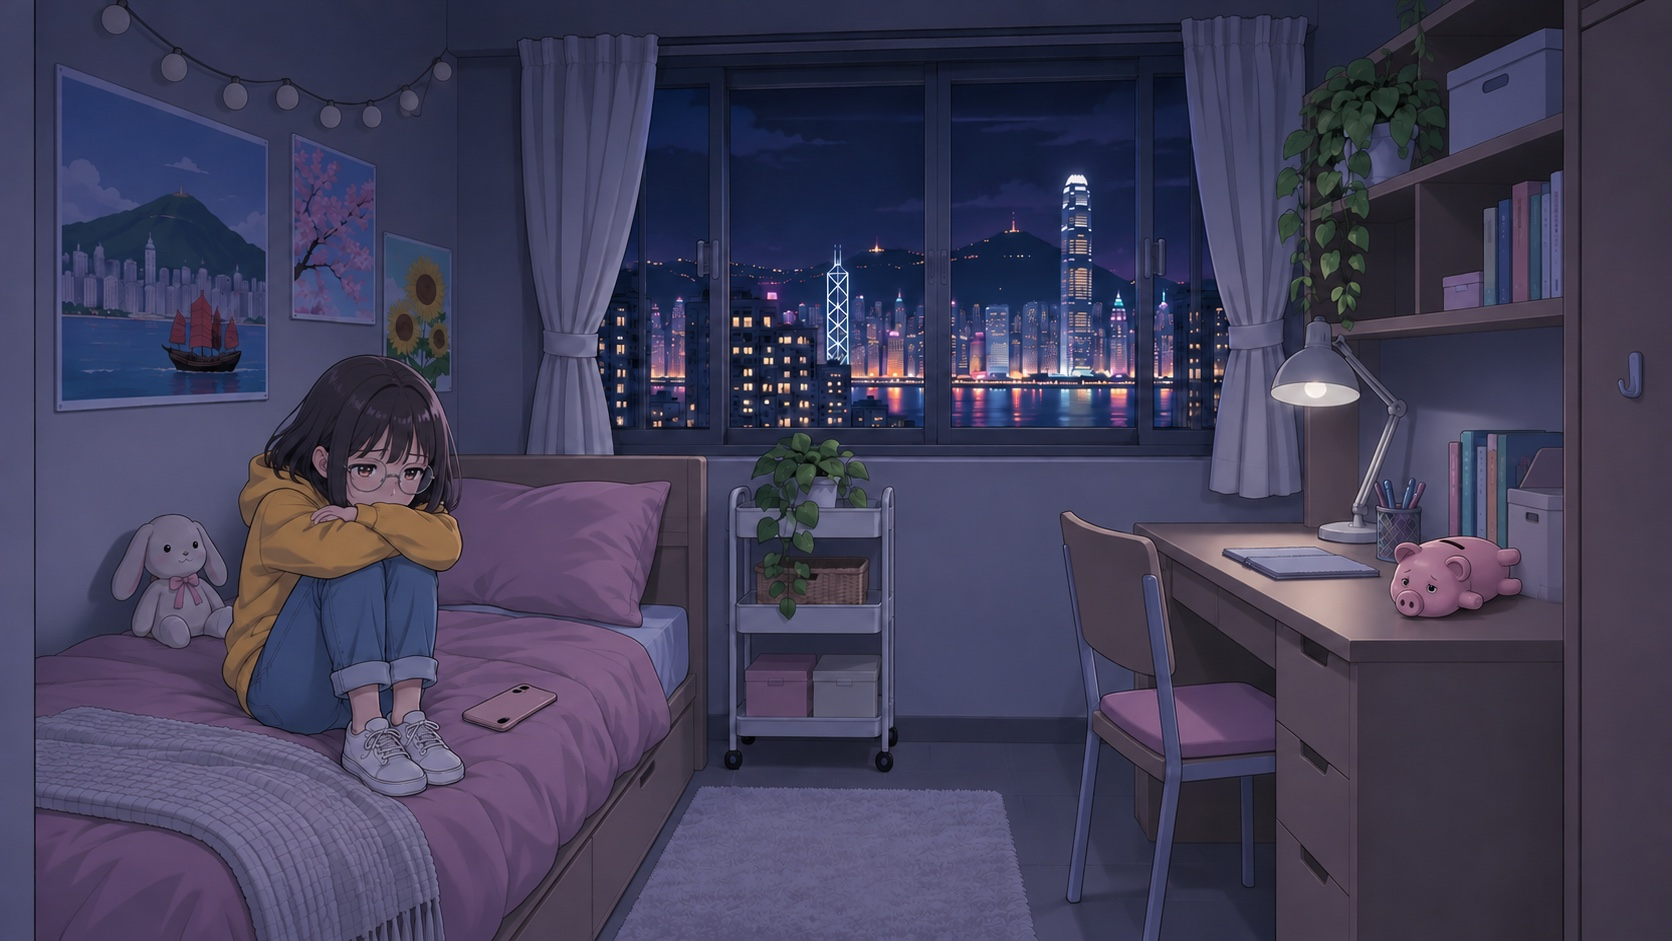
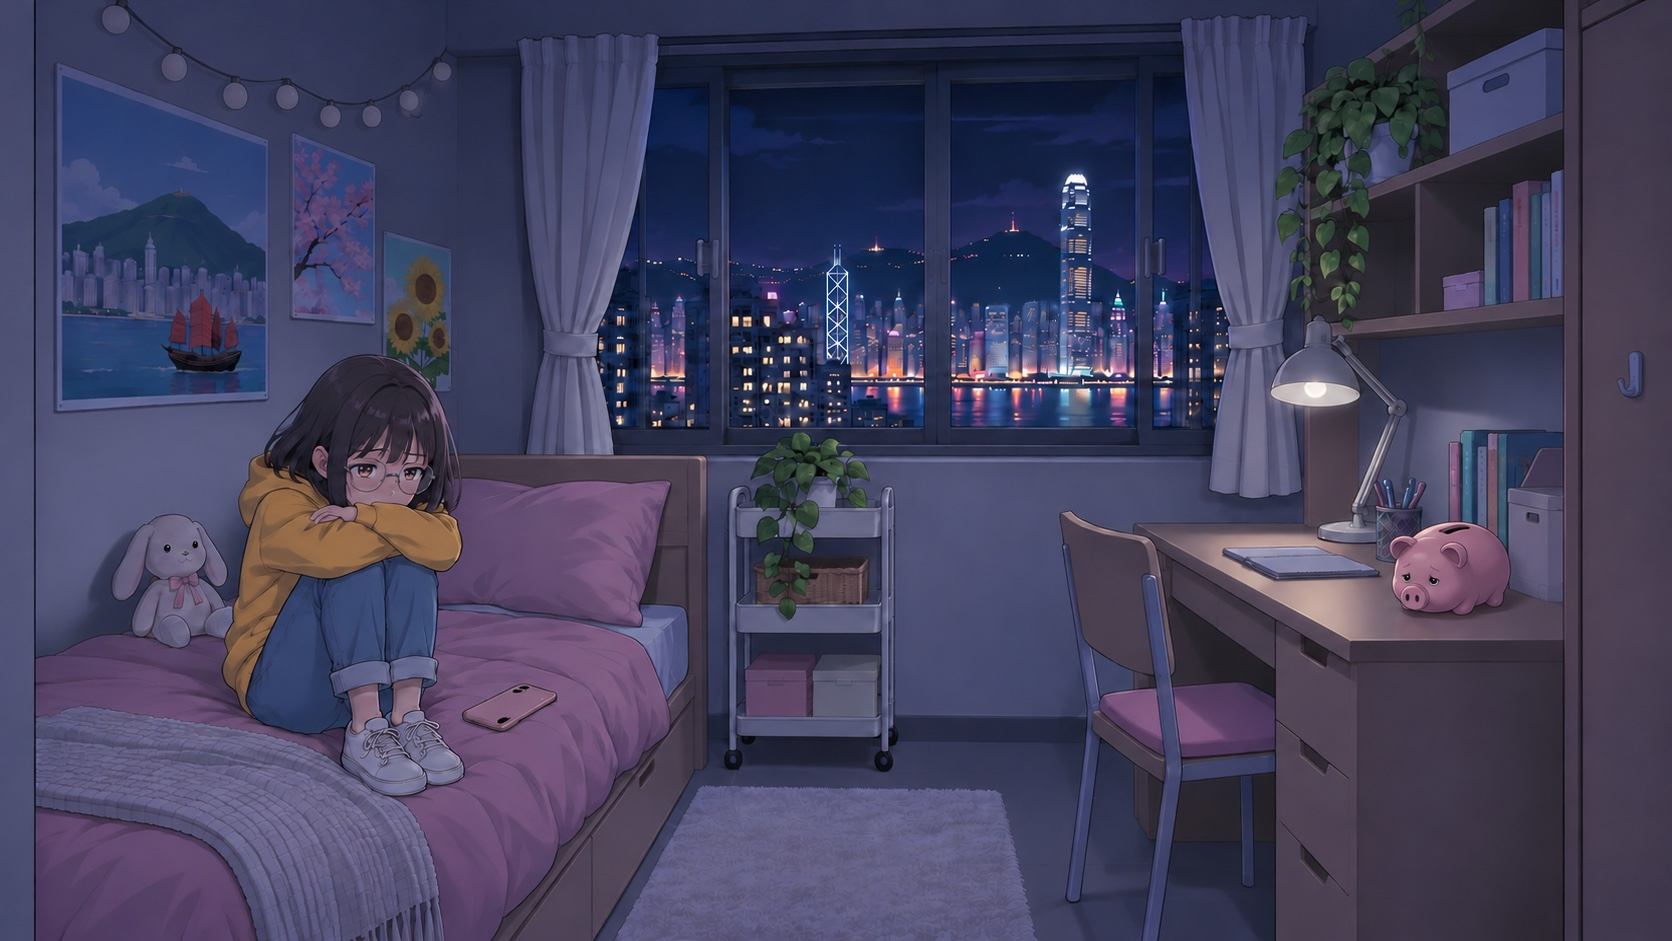
Integrate story illustrations and finalize resting Piggy

diff --git a/story.js b/story.js
@@ -53,7 +53,7 @@ const STORY = {
     timeoutTo: "c1_hook"
   },
   c1_safe: {
-    chapter: { en: "Ch.1 The Dream Job", zh: "第一章 · 梦想兼职" }, title: { en: "Blocked!", zh: "已拉黑！" }, kind: "image", media: null, pos: [2, 0],
+    chapter: { en: "Ch.1 The Dream Job", zh: "第一章 · 梦想兼职" }, title: { en: "Blocked!", zh: "已拉黑！" }, kind: "image", media: "media/c1_safe.jpg", pos: [2, 0],
     scene: { emoji: "🛡🐷💖", bg: "linear-gradient(135deg,#c8f7dc,#e6fff2)", tag: { en: "Day 3 · 11:49 PM", zh: "第 3 天 · 晚上 11:49" } },
     phone: { kind: "scan", from: { en: "Scameter check", zh: "防骗视伏器查询" }, text: { en: "⚠ HIGH RISK — number reported for job scams", zh: "⚠ 高风险——该号码曾被举报涉及求职诈骗" } },
     lines: [{ who: { en: "Piggy", zh: "Piggy" }, text: { en: "Look at you! Delete, block, report. I'm so proud I could cry coins.", zh: "看看你！删除、拉黑、举报。我骄傲得都快哭出硬币了。" } }],
@@ -77,7 +77,7 @@ const STORY = {
     timeoutTo: "c1_trap"
   },
   c1_check: {
-    chapter: { en: "Ch.1 The Dream Job", zh: "第一章 · 梦想兼职" }, title: { en: "37 Reports", zh: "37 次举报" }, kind: "image", media: null, pos: [3, 1],
+    chapter: { en: "Ch.1 The Dream Job", zh: "第一章 · 梦想兼职" }, title: { en: "37 Reports", zh: "37 次举报" }, kind: "image", media: "media/c1_check.jpg", pos: [3, 1],
     scene: { emoji: "🔍🚨🐷", bg: "linear-gradient(135deg,#d7ecff,#f0f7ff)", tag: { en: "Day 4 · 12:03 AM", zh: "第 4 天 · 凌晨 12:03" } },
     phone: { kind: "scan", from: { en: "Scameter check", zh: "防骗视伏器查询" }, text: { en: "⚠ Reported 37 times — Employment fraud", zh: "⚠ 已被举报 37 次——求职诈骗" } },
     lines: [
@@ -104,7 +104,7 @@ const STORY = {
     timeoutTo: "c1_recover"
   },
   c1_recover: {
-    chapter: { en: "Ch.1 The Dream Job", zh: "第一章 · 梦想兼职" }, title: { en: "Calling 18222", zh: "拨打 18222" }, kind: "image", media: null, pos: [4, 2],
+    chapter: { en: "Ch.1 The Dream Job", zh: "第一章 · 梦想兼职" }, title: { en: "Calling 18222", zh: "拨打 18222" }, kind: "image", media: "media/c1_recover.jpg", pos: [4, 2],
     scene: { emoji: "☎🩹🐷", bg: "linear-gradient(135deg,#e3dcff,#f6f2ff)", tag: { en: "Day 4 · 12:31 AM", zh: "第 4 天 · 凌晨 12:31" } },
     phone: { kind: "call", from: { en: "Anti-Scam Helpline 18222", zh: "防骗易热线 18222" }, text: { en: "Connected", zh: "已接通" } },
     lines: [
@@ -132,7 +132,7 @@ const STORY = {
     timeoutTo: "c2_deep"
   },
   c2_safe: {
-    chapter: { en: "Ch.2 The Officer Calls", zh: "第二章 · 警官来电" }, title: { en: "Hung Up", zh: "挂断了" }, kind: "image", media: null, pos: [6, 0],
+    chapter: { en: "Ch.2 The Officer Calls", zh: "第二章 · 警官来电" }, title: { en: "Hung Up", zh: "挂断了" }, kind: "image", media: "media/c2_safe.jpg", pos: [6, 0],
     scene: { emoji: "📵😎🐷", bg: "linear-gradient(135deg,#c8f7dc,#e6fff2)", tag: { en: "Week 2 · 9:20 AM", zh: "第 2 周 · 上午 9:20" } },
     lines: [
       { who: { en: "Helpline", zh: "热线人员" }, text: { en: "Real police never ask you to keep it secret, transfer money, or show a warrant by video call.", zh: "真正的警察不会要求你保密、转账，或通过视频通话出示通缉令。" } },
@@ -157,7 +157,7 @@ const STORY = {
     timeoutTo: "c2_door"
   },
   c2_crack: {
-    chapter: { en: "Ch.2 The Officer Calls", zh: "第二章 · 警官来电" }, title: { en: "Vibe Check Failed", zh: "露馅了" }, kind: "image", media: null, pos: [7, 1],
+    chapter: { en: "Ch.2 The Officer Calls", zh: "第二章 · 警官来电" }, title: { en: "Vibe Check Failed", zh: "露馅了" }, kind: "image", media: "media/c2_crack.jpg", pos: [7, 1],
     scene: { emoji: "😡📴🐷", bg: "linear-gradient(135deg,#ffe0b3,#fff3e0)", tag: { en: "Week 2 · 10:05 AM", zh: "第 2 周 · 上午 10:05" } },
     lines: [
       { who: { en: "Wang", zh: "王警官" }, text: { en: "You DARE question me?! *click*", zh: "你敢质疑我？！*挂断*" } },
@@ -245,25 +245,25 @@ const STORY = {
 
   // ---------------- Endings ----------------
   end_slayer: {
-    chapter: { en: "Ending", zh: "结局" }, title: { en: "Scam Slayer", zh: "骗局终结者" }, kind: "image", media: null, pos: [11, 0],
+    chapter: { en: "Ending", zh: "结局" }, title: { en: "Scam Slayer", zh: "骗局终结者" }, kind: "image", media: "media/end_slayer.jpg", pos: [11, 0],
     scene: { emoji: "🐷🕶🏆", bg: "linear-gradient(135deg,#fff1a8,#ffd6e7)", tag: { en: "End of semester", zh: "学期结束" } },
     lines: [{ who: { en: "Piggy", zh: "Piggy" }, text: { en: "Still chubby. Still rich. Best semester ever.", zh: "还是圆滚滚的，还是有钱。最棒的一个学期。" } }],
     ending: { badge: "🛡", good: true, title: { en: "SCAM SLAYER", zh: "骗局终结者" }, text: { en: "You spotted every trick. Now send this to the friend who clicks every link.", zh: "你识破了每个圈套。现在把这个故事发给那个见链接就点的朋友。" } }
   },
   end_comeback: {
-    chapter: { en: "Ending", zh: "结局" }, title: { en: "Comeback Kid", zh: "及时止损者" }, kind: "image", media: null, pos: [11, 1],
+    chapter: { en: "Ending", zh: "结局" }, title: { en: "Comeback Kid", zh: "及时止损者" }, kind: "image", media: "media/end_comeback.jpg", pos: [11, 1],
     scene: { emoji: "🐷🩹👍", bg: "linear-gradient(135deg,#d6f5ff,#ffe6f0)", tag: { en: "End of semester", zh: "学期结束" } },
     lines: [{ who: { en: "Piggy", zh: "Piggy" }, text: { en: "A little lighter. A lot wiser.", zh: "轻了一点。也聪明了很多。" } }],
     ending: { badge: "🔁", good: true, title: { en: "COMEBACK KID", zh: "及时止损者" }, text: { en: "You got hooked — but you stopped, spoke up and reported. That's how money gets saved: fast action, no shame.", zh: "你上过钩，但你停了手、说了出来，也报了案。保住钱靠的就是及时行动，不必羞于求助。" } }
   },
   end_dark: {
-    chapter: { en: "Ending", zh: "结局" }, title: { en: "Gone Dark", zh: "失联" }, kind: "image", media: null, pos: [8, 3],
+    chapter: { en: "Ending", zh: "结局" }, title: { en: "Gone Dark", zh: "失联" }, kind: "image", media: "media/end_dark.jpg", pos: [8, 3],
     scene: { emoji: "📱⬛😢", bg: "linear-gradient(135deg,#1a1a1a,#3a3a3a)", tag: { en: "Two days later", zh: "两天后" } },
     lines: [{ who: { en: "Narrator", zh: "旁白" }, text: { en: "Mia went silent. Two days later, her parents received a video of her 'kidnapped' — and a ransom demand.", zh: "Mia 失联了。两天后，她的父母收到她“被绑架”的视频，以及索要赎金的信息。" } }],
     ending: { badge: "🌑", good: false, title: { en: "GONE DARK", zh: "失联" }, text: { en: "Silence is a scammer's best friend. In real 'virtual kidnapping' cases, students were told to fake their own kidnapping. Tell someone. Always.", zh: "沉默是骗子最好的朋友。在真实的“虚拟绑架”案件中，学生曾被要求假装自己遭到绑架。一定要告诉别人。" }, rewind: "c2_door" }
   },
   end_faceswap: {
-    chapter: { en: "Ending", zh: "结局" }, title: { en: "Face Swapped", zh: "换脸陷阱" }, kind: "image", media: null, pos: [11, 3],
+    chapter: { en: "Ending", zh: "结局" }, title: { en: "Face Swapped", zh: "换脸陷阱" }, kind: "image", media: "media/end_faceswap.jpg", pos: [11, 3],
     scene: { emoji: "🎭🐷🕳", bg: "linear-gradient(135deg,#3a2a4a,#6a4a6a)", tag: { en: "One week later", zh: "一周后" } },
     lines: [{ who: { en: "Piggy", zh: "Piggy" }, text: { en: "Four thousand dollars... gone. And Mia hasn't told a single soul.", zh: "四千块……没了。而 Mia 一个人都没告诉。" } }],
     ending: { badge: "🎭", good: false, title: { en: "FACE SWAPPED", zh: "换脸陷阱" }, text: { en: "A deepfake needs only seconds of a voice and a few selfies. Shame kept Mia quiet — and the money disappeared.", zh: "深伪只需要几秒语音和几张自拍。羞耻感让 Mia 保持沉默，钱也随之消失。" }, rewind: "c3_sent" }

diff --git a/planning/stills-production.md b/planning/stills-production.md
@@ -1,0 +1,24 @@
+# 九张剧情静态图 · 2026-11-09
+
+按组员要求，整批制作后统一接入。采用锁定角色和宿舍参考图，以内置图像生成工具制作；9张最终图共16次生成/编辑，视频生成次数仍为14。完整提示词及版本选择见stills-generation.json，预览见stills-overview.jpg。所有原始PNG及旧版保存在本机制作目录。
+
+九个image节点已设置明确的本地JPEG路径，复用现有图片播放、字幕及结局流程。没有修改故事文字、分支、金额、页面样式或新增依赖与外部请求。图片节点没有添加视频字幕t。
+
+## 制作纠正
+
+| 版本 | 问题 | 改了什么 | 谁发现 | 谁决定 |
+|---|---|---|---|---|
+| c1_check v1→v2 | 桌子被转向房间中间 | 按参考图改回靠右墙，Mia侧坐查电脑 | 组员 | 组员 |
+| end_slayer v1→v2 | Mia裤子成了浅米色 | 对照全身图改回蓝色牛仔裤 | 组员 | 组员 |
+| end_comeback / c1_recover v1→v2 | 同批裤子颜色也偏离参考图 | 同步改为蓝色 | Codex依据组员纠正检查 | 按组员一致性要求 |
+| end_faceswap v1→v2 | 未按原分镜侧躺 | 改侧躺 | Codex | Codex |
+| end_faceswap v2→v3 | 只露出三条腿，组员认为缺腿 | 要求四腿可见，结果排列僵硬、不自然 | 组员 | 组员提出修正，Codex执行 |
+| end_faceswap v3→v4 | 为露四腿破坏了自然姿势 | 经组员同意改为正常趴着、低头失落，允许自然遮挡 | 组员 | 组员 |
+
+## 验证
+
+tests/check.cjs通过：40条路线、四个结局全部余额集合、中英文文本、字幕时钟、音频生命周期和安全检查。
+
+使用本地HTTP服务，在1280px桌面和375px手机宽度实走全部九张图，图片全部加载且没有横向溢出。最终end_faceswap v4另行复核两种宽度。实走路线及余额：B-A-B→Slayer 8000；A-B-B-B-B→Slayer 8050；A-A-A-A-B→Comeback 5050；A-A-A-A-A-B→Face Swapped 1050；A-A-A-B-A-B→Gone Dark 2050。
+
+所有JPEG解码通过，尺寸约1672×941；c1_check为1671×941，均近16:9。仍有少量背景书脊装饰笔画，手部和道具为动漫简化。iOS/Android真机未测试。
